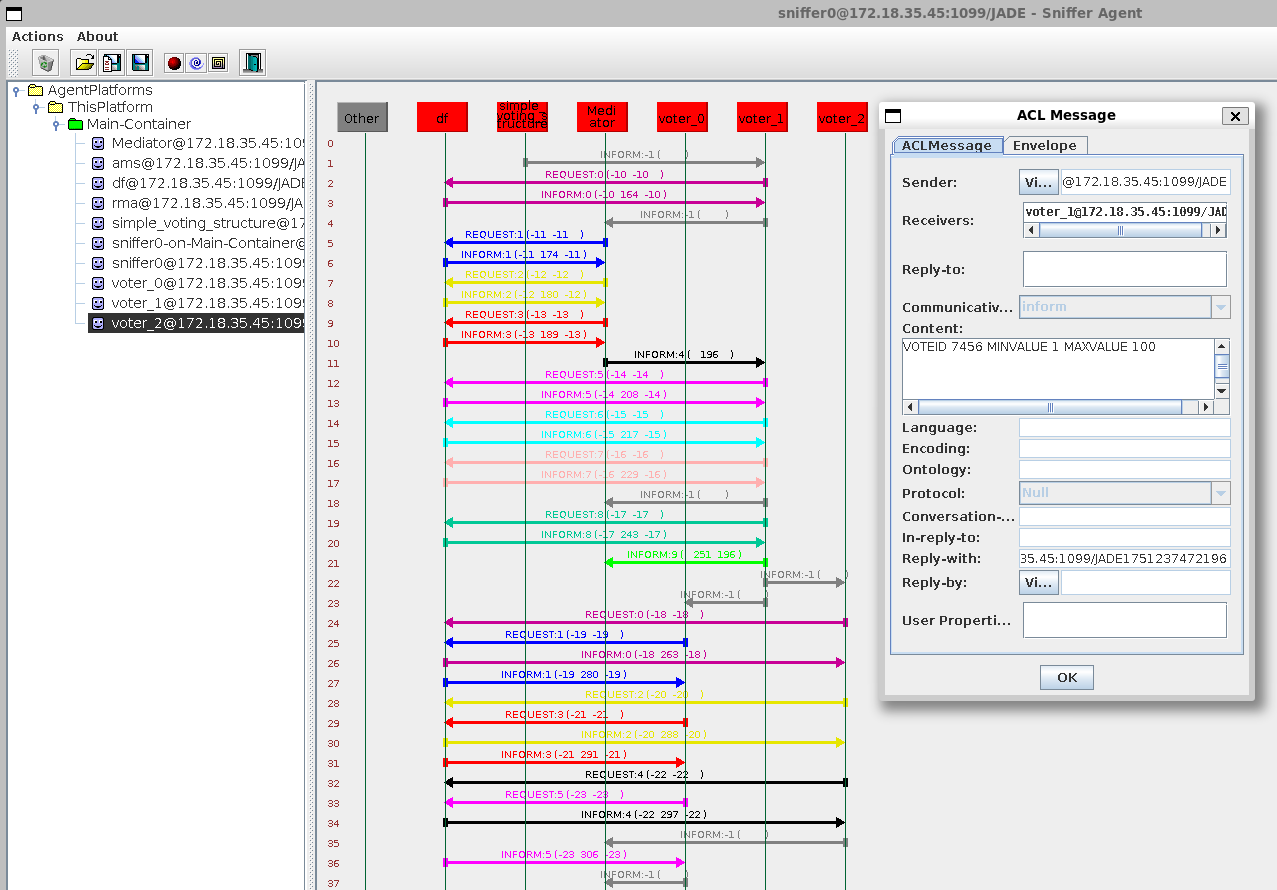
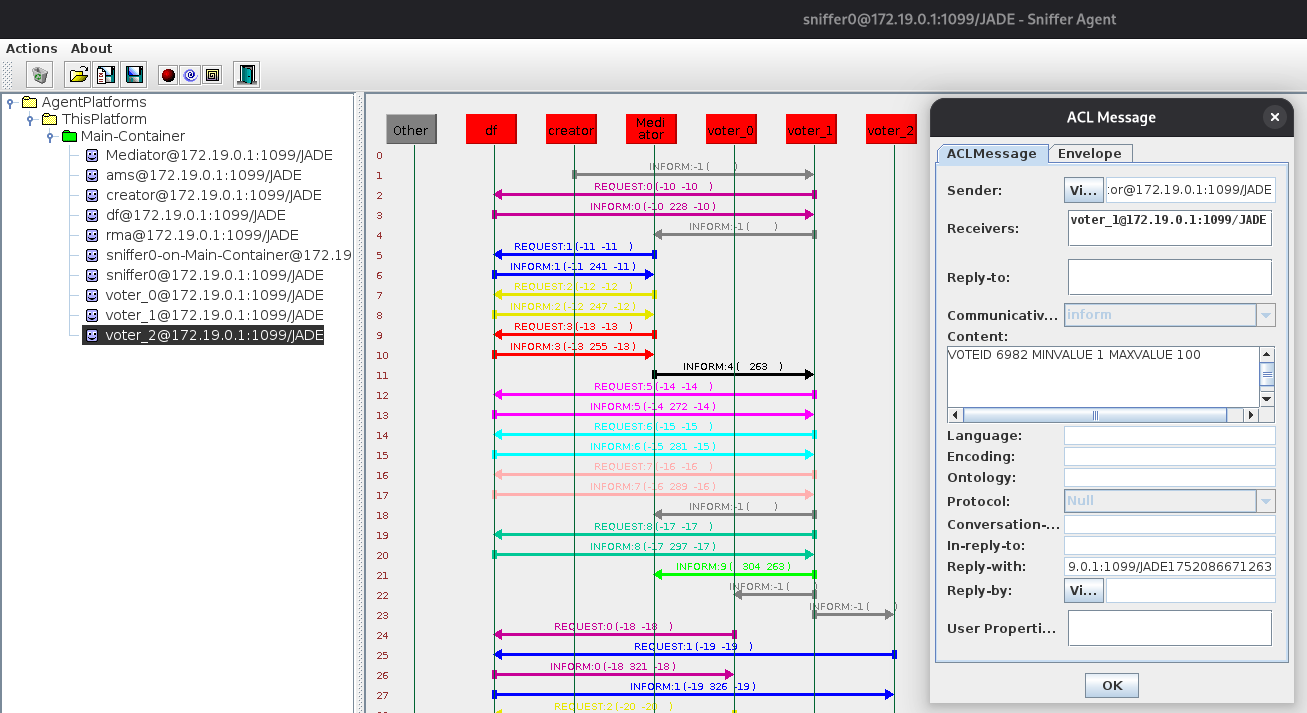
:recycle: rename App.java to Creator.java

diff --git a/src/main/java/simple_voting_structure/Creator.java b/src/main/java/simple_voting_structure/Creator.java
@@ -14,7 +14,7 @@ import jade.wrapper.AgentController;
 /**
  * Class that set the main agent and it's actions
  */
-public class App extends BaseAgent {
+public class Creator extends BaseAgent {
 
 	private static final long serialVersionUID = 1L;
 

diff --git a/README.md b/README.md
@@ -39,7 +39,7 @@ Por fim, o agente mediador informa os vencedores a todos os agentes votantes par
 
 ## Projeto em Execução
 
-Abaixo, na *Figura 1*, são apresentados os agentes participantes da votação através da visualização fornecida pelo *sniffer*. Nela, é possível ver o agente *creator*, nomeado por "simple_voting_structure", o agente mediador e os agentes votantes.
+Abaixo, na *Figura 1*, são apresentados os agentes participantes da votação através da visualização fornecida pelo *sniffer*. Nela, é possível ver o agente *creator*, o agente mediador e os agentes votantes.
 
 <img src="assets/figura1.png" alt="Visualização dos Agentes pelo *Sniffer*">
 
